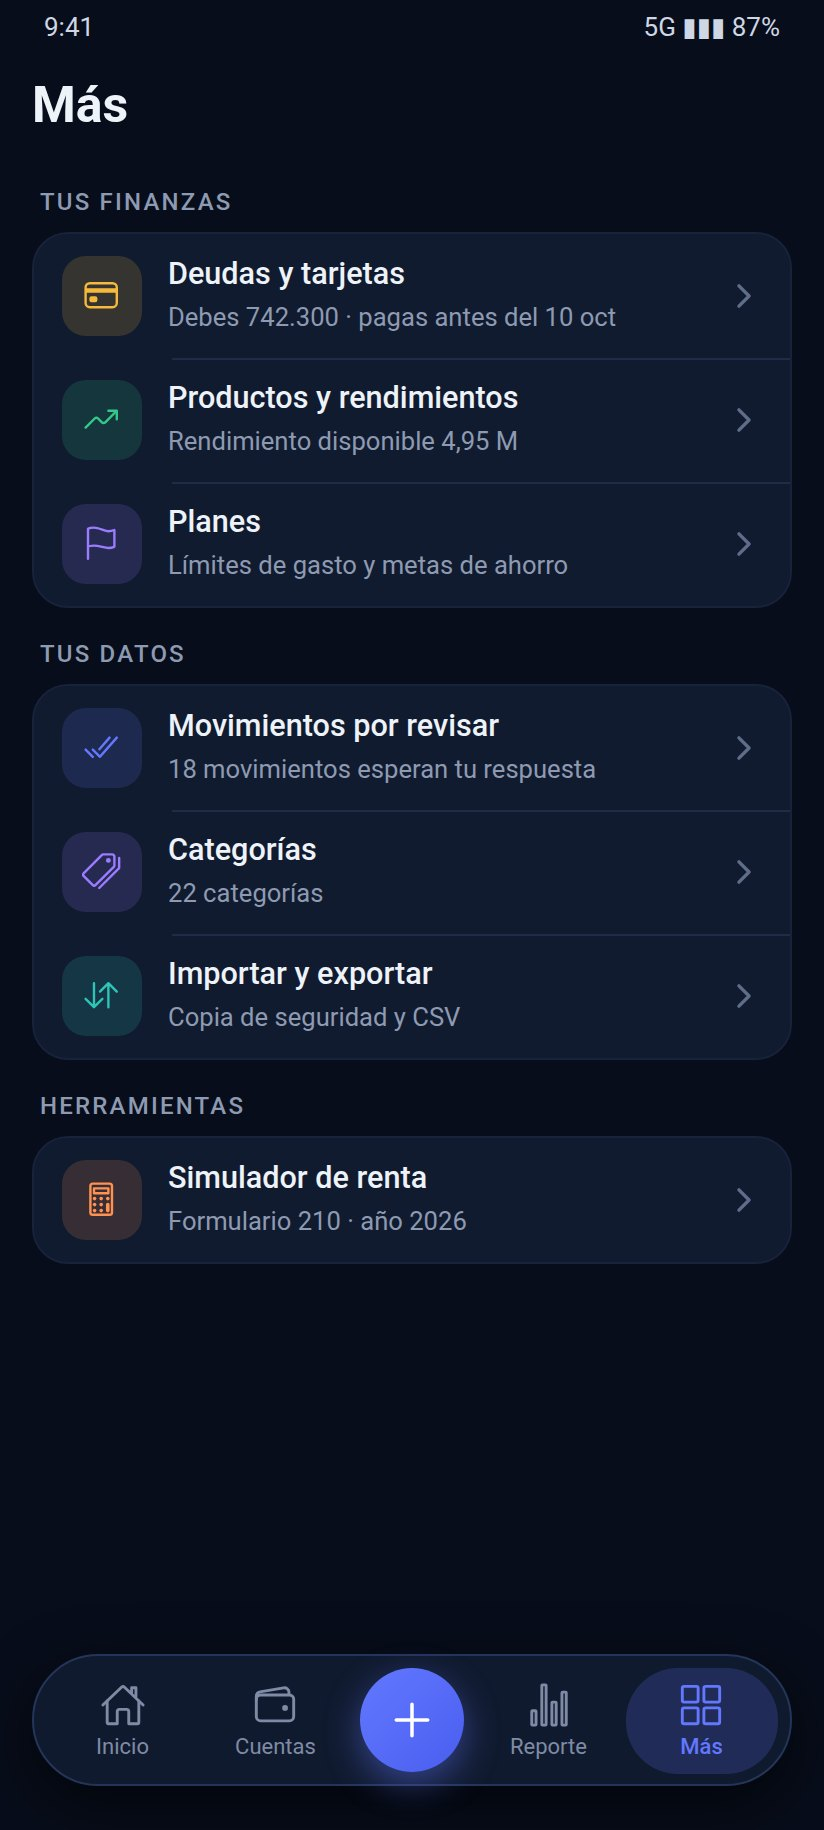
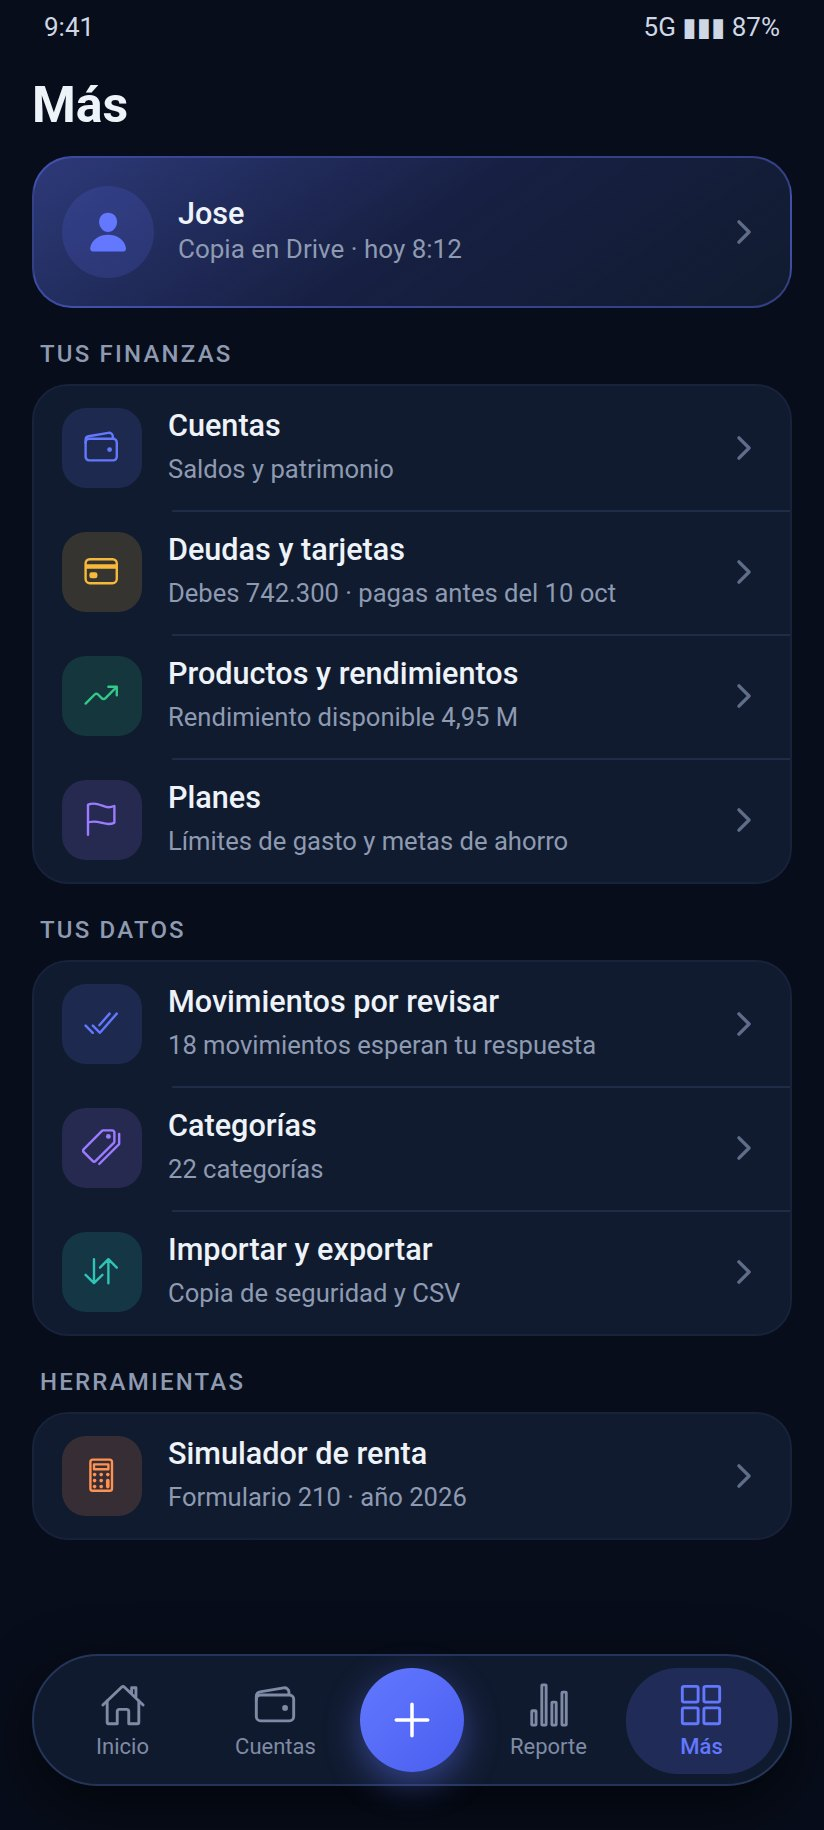
Debts: quick buttons on Inicio, Cuentas in Más, and the loan screens' route (#17)
Inicio shows a card's debt button and an earning account's piggy bank
before the edit button. Más lists Cuentas first under Tus finanzas. The
loan mockups put what is left owed after a payment ahead on its own line,
make Abonar one scrolling tab with its actions at the foot, and a new
image draws how the loan screens lead to one another.

Claude-Session: https://claude.ai/code/session_01QyUqFix1SMdsKVBtd1Wz88

diff --git a/src/app/features/movements/movements.page.html b/src/app/features/movements/movements.page.html
@@ -62,20 +62,27 @@
               @if (filter.allAccounts() && standing.currency !== 'COP') { <small>{{ standing.currency }}</small> }
             </div>
           </div>
-          <!-- One account's quick buttons: editing it, and for an account that
-               earns, its products and yields. -->
+          <!-- One account's quick buttons: first where it leads - a card's
+               debt, an earning account's products and yields - then editing
+               it (Jose, 2026-10-01). -->
           @if (store.selectedAccount(); as account) {
             <span class="quick">
-              <button type="button" class="ui-round solid" (click)="scope.editAccount(account)"
-                      [attr.aria-label]="'summary.editAccount' | t" [title]="'summary.editAccount' | t">
-                <ion-icon name="account-edit"></ion-icon>
-              </button>
+              @if (account.type === 'credit') {
+                <button type="button" class="ui-round solid" (click)="toDebt(account.id)"
+                        [attr.aria-label]="'summary.toDebt' | t" [title]="'summary.toDebt' | t">
+                  <ion-icon name="receipt-outline"></ion-icon>
+                </button>
+              }
               @if (earning().has(account.id)) {
                 <button type="button" class="ui-round solid" (click)="toProducts(account.id)"
                         [attr.aria-label]="'summary.toProducts' | t" [title]="'summary.toProducts' | t">
                   <ion-icon name="piggy-bank"></ion-icon>
                 </button>
               }
+              <button type="button" class="ui-round solid" (click)="scope.editAccount(account)"
+                      [attr.aria-label]="'summary.editAccount' | t" [title]="'summary.editAccount' | t">
+                <ion-icon name="account-edit"></ion-icon>
+              </button>
             </span>
           }
         </div>

diff --git a/src/app/core/i18n/translations-ui.ts b/src/app/core/i18n/translations-ui.ts
@@ -407,6 +407,8 @@ export const UI_ES = {
   'cards.caveat': 'Calculado con tus movimientos. Intereses, cuotas y cobros del banco pueden hacer que su factura sea distinta.',
   'cards.gone': 'Esta tarjeta ya no existe.',
   'cards.dueDay.same': 'del mismo mes',
+  'more.accounts': 'Cuentas',
+  'more.accounts.hint': 'Saldos y patrimonio',
 } as const;
 
 export const UI_EN: Record<keyof typeof UI_ES, string> = {
@@ -811,4 +813,6 @@ export const UI_EN: Record<keyof typeof UI_ES, string> = {
   'cards.caveat': 'Worked out from your movements. Interest, installments and bank fees can make the bank\'s statement differ.',
   'cards.gone': 'This card no longer exists.',
   'cards.dueDay.same': 'of the same month',
+  'more.accounts': 'Accounts',
+  'more.accounts.hint': 'Balances and net worth',
 };

diff --git a/src/app/features/more/more.page.html b/src/app/features/more/more.page.html
@@ -26,6 +26,11 @@
 
     <div class="ui-h">{{ 'more.finances' | t }}</div>
     <div class="ui-list">
+      <button type="button" class="ui-row" (click)="go('/accounts')">
+        <app-badge [size]="40" builtin="wallet-outline" [fixed]="accent.accent().color"></app-badge>
+        <span class="ui-tx"><b class="wrap">{{ 'more.accounts' | t }}</b><small>{{ 'more.accounts.hint' | t }}</small></span>
+        <ion-icon class="ui-chev" name="chevron-forward-outline"></ion-icon>
+      </button>
       <button type="button" class="ui-row" (click)="go('/debts')">
         <app-badge [size]="40" builtin="card-outline" fixed="#f6b93b"></app-badge>
         <span class="ui-tx"><b class="wrap">{{ 'more.debts' | t }}</b><small [class.late]="debtsLate()">{{ debtsLine() }}</small></span>

diff --git a/src/app/core/i18n/translations.ts b/src/app/core/i18n/translations.ts
@@ -286,6 +286,7 @@ export const SPANISH = {
 
   'summary.editAccount': 'Editar esta cuenta',
   'summary.toProducts': 'Ver sus productos y rendimientos',
+  'summary.toDebt': 'Ver su deuda y su factura',
   'summary.period': 'Periodo',
   'summary.from': 'Desde',
   'summary.to': 'Hasta',
@@ -1339,6 +1340,7 @@ export const ENGLISH: Record<TranslationKey, string> = {
 
   'summary.editAccount': 'Edit this account',
   'summary.toProducts': 'See its products and yields',
+  'summary.toDebt': 'See its debt and statement',
   'summary.period': 'Period',
   'summary.from': 'From',
   'summary.to': 'To',

diff --git a/src/app/features/movements/movements.page.ts b/src/app/features/movements/movements.page.ts
@@ -87,6 +87,11 @@ export class MovementsPage {
   });
 
   /** Straight into this account's yields, its sheet already open. */
+  /** A card's debt and its statement (debts, part 1). */
+  async toDebt(accountId: number): Promise<void> {
+    await this.router.navigate(['/debts', accountId]);
+  }
+
   async toProducts(accountId: number): Promise<void> {
     await this.router.navigate(['/products'], { queryParams: { account: accountId } });
   }

diff --git a/docs/mockups/README.md b/docs/mockups/README.md
@@ -33,6 +33,7 @@ Every list of movements is in folding sections (by day or category), only the fi
 | `12a`–`12i` | **Part 1 of debts, for approval** (2026-10-01): Más with "Tus finanzas", Cuentas → Deudas with one card and no loans, the card's two optional days, and its statement due, part paid, paid, overdue, without days and with nothing owed |
 | `13a`–`13k` | **Part 2 of debts, loans, for approval** (2026-10-01; invented loan: 60,000,000 at 16.5% E.A., 60 monthly installments, 23 paid, every figure worked out): Deudas with a card and a loan, "Nueva deuda", the loan's form, one begun before the app, its Resumen and Cuotas, paying an installment and paying other figures than the worked-out ones, an installment overdue, a loan paid off, Saldos with the loan |
 | `13l`–`13r` | **Paying a loan ahead, v2 for approval** (2026-10-01): capital and interest on lines of their own in Cuotas (`13f`), abonar once with the three answers side by side (`13l`), how much each amount saves (`13m`), in the primas or every month (`13n`), registering it (`13o`), the schedule after it (`13p`), paying it all today (`13q`), an installment paid with default interest (`13r`) |
+| `13s` | **How the loan screens lead to one another** (`src/flow-13.mjs`): Resumen → Abonar → Registrar el abono → Cuotas, and the other exits |
 | `6a`–`6z` | Group 6 (v5): Por revisar - the account on top, the batch and its list by day, the notices on rows, shops that repeat, the check's bubble; a movement checked in the one movement form (its note with suggestions, missing its category, maybe the same); choosing several by day and by shop, and saving them; the filter-and-order sheet, a filter on; the account list with Todas first; the "···" and discarding; squaring with the bank (its (i), its question); reading a statement - whose it is, the password, the stages, what was read (a toast), one that does not square, one that cannot be read; nothing to review |
 | `7a`–`7m` | Group 7 (v4): Avisos del banco - the apps and their switches, the (i), what they said by day, choosing several apps, hiding, hidden apps, the "···" and forgetting everything, without permission and its (i), nothing yet, a search with nothing |
 | `8a`–`8q` | Group 8 (v5): Más (replacing the drawer), language and appearance, Importar y exportar with its (i)'s, restoring and its question, Google signed out and in, saving alone, bringing the copy back, replacing another device's copy, changing account; appearance with the colour of the app |

diff --git a/CLAUDE.md b/CLAUDE.md
@@ -3324,6 +3324,21 @@ same day (web; the norms to re-read before building):
   instead of 11,049,708, saving 2,896,849 with the insurance; lowering the
   installment instead: 1,306,833, saving 1,272,397).
 
+**And from his next look (2026-10-01), built or drawn:**
+- **Inicio's quick buttons go where-it-leads first, edit last** (built): a
+  card shows the receipt (its debt and statement, `/debts/:id`), an earning
+  account the piggy bank, then the account's edit button.
+- **Más → Tus finanzas starts with Cuentas** (built), then Deudas y
+  tarjetas, then Productos y rendimientos; the Google card stays on top.
+- In Cuotas the payment ahead says "Queda debiendo" on its own line (`13p`).
+- **How the loan screens lead to one another**: `13s-recorrido-prestamo.jpg`
+  (drawn by `docs/mockups/src/flow-13.mjs`). Everything lives on the loan's
+  page, Resumen | Cuotas | Abonar; Abonar is ONE scrolling tab - the amount
+  and how often on top, the two answers, how much each amount saves, and at
+  its foot "Registrar el abono" (the transfer form) and "Pagar todo el
+  préstamo"; an overdue installment turns the Resumen red and "Pagar la
+  cuota" opens the transfer with the default interest.
+
 ### The ideas, by what they would take
 
 | # | Idea | Size | Touches | Status |
